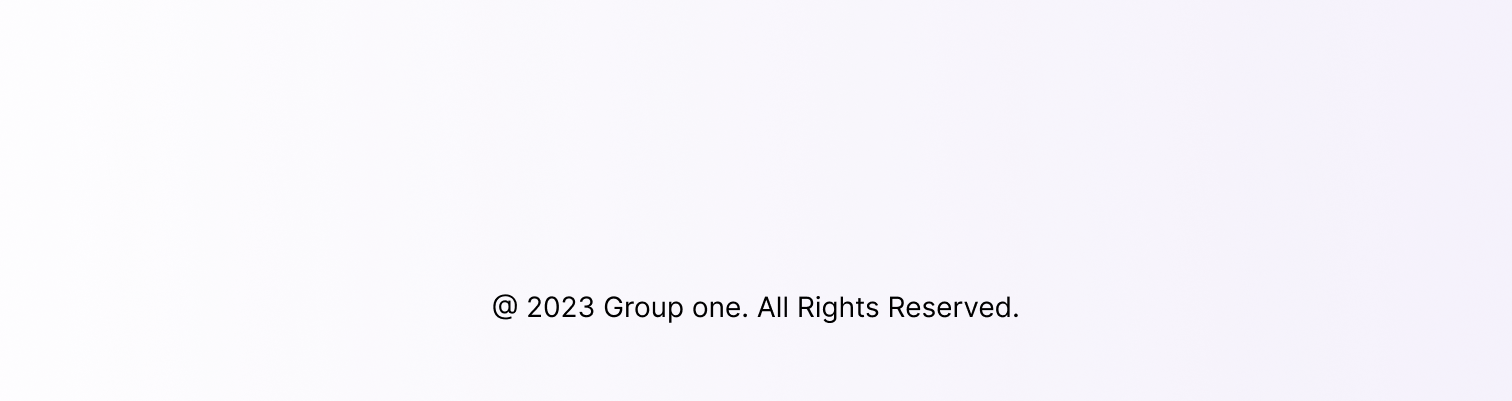
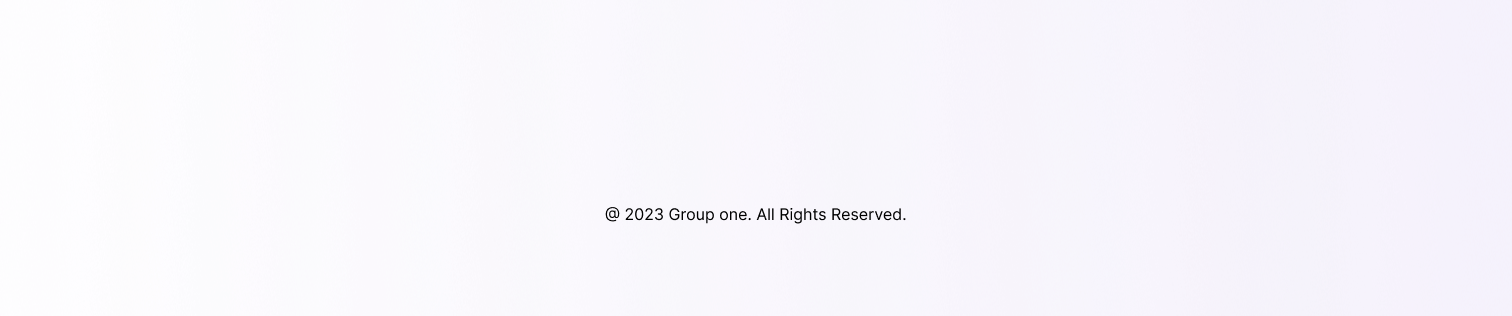
modified

Changed region(s): [[0.3108, 0.7405, 0.6839, 0.7975], [0.4041, 0.6551, 0.5906, 0.712]]

diff --git a/style.css b/style.css
@@ -97,7 +97,6 @@ h2 {
 }
 
 footer img {
-    height: 200px;
     width: 100%;
     margin-top: 100px;
 }
